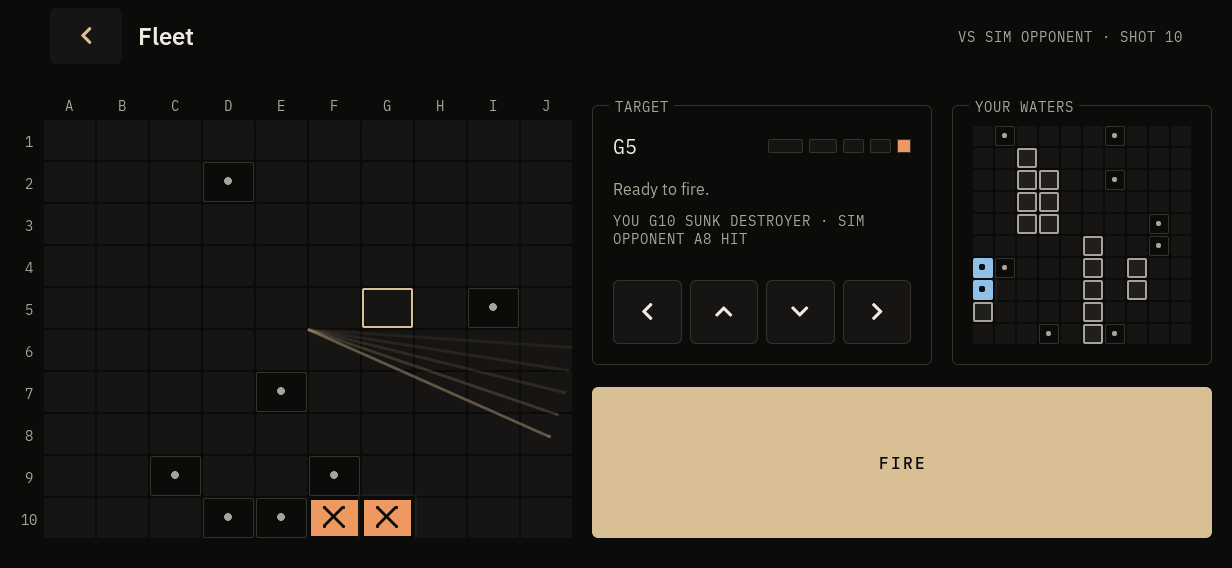
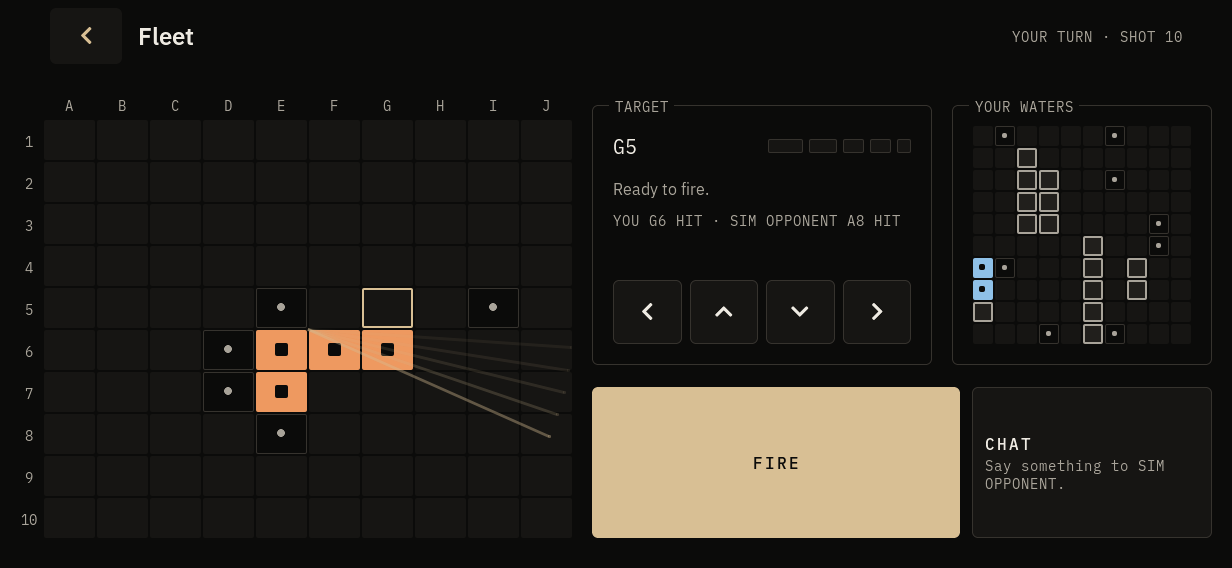
docs: Fleet chat and status - protocol, ADR-008 note, gate sheet, shots
FLEET_MULTIPLAYER.md gains the two message types, a Chat section (ids,
receipts, copies, priority, the airtime terms, bounds, old builds), the
status and chat rows of the UX table, the airtime measured with both
players talking, and the new test coverage. ADR-008 (still Proposed) notes
the addition. FLEET_CHAT_STATUS_GATE.md is the two-device gate, NOT RUN:
unit A was not reachable. The multiplayer screenshots are regenerated
(the header now carries the status; Battle and Result show CHAT) and the
chat screen is added in both shapes.

diff --git a/docs/apps/FLEET_MULTIPLAYER.md b/docs/apps/FLEET_MULTIPLAYER.md
@@ -60,8 +60,9 @@ meshcored puts it in a MeshCore REQ as `tag(4) | 0xD1 | length(1) | packet`
 the decrypted REQ is padded to the AES block and MeshCore records no length
 of its own. A packet of at most **10 bytes** is one AES block: a **22-byte
 frame, 304.1 ms**. Up to **26 bytes** is two blocks: **38 bytes, 386.0 ms**
-(zero hops; each hop adds a path byte and a retransmission). Every Fleet
-packet is one or the other.
+(zero hops; each hop adds a path byte and a retransmission). Every packet
+of the game is one or the other. Only a line of chat can need a third
+block: up to **42 bytes**, a **54-byte frame, 468.0 ms** ("Chat").
 
 Field encodings:
 
@@ -89,6 +90,8 @@ Field encodings:
 | 10 | REVEAL | both | layout(5) ‖ salt(16); flags in the ply byte (bit 0: I hold your reveal) | 26 | REVEAL |
 | 11 | END | either | reason (1 forfeit, 2 void, 3 abandon, 4 cancelled, 5 unknown, 6 violation, 7 finished); ply = R | 6 | END_ACK |
 | 12 | END_ACK | either | reason echoed | 6 | – |
+| 13 | CHAT | either | the line: 1 to 37 bytes of UTF-8, no control character; the line's id in the ply byte | 6 to 42 | CHAT_ACK |
+| 14 | CHAT_ACK | either | check(2): 16 bits of FNV-1a over id ‖ text; the id in the ply byte | 7 | – |
 
 There is no TURN_ACK and no GAME_OVER: RESULT acknowledges SHOT, the next
 SHOT carries and acknowledges the RESULT before it (`prev`), REVEAL
@@ -100,7 +103,9 @@ SYNC phase codes: 0 none, 1 before start, 2 deploying, 3 committed,
 
 A packet is **dropped** unless its length is exactly right for its type, its
 version is 1, its sid is non-zero, every enum and cell is in range, and its
-sender is the session's peer (INVITE excepted).
+sender is the session's peer (INVITE excepted). CHAT is the one type whose
+length is its text's; its text is checked like any field (well-formed UTF-8,
+no overlong form or surrogate, no C0, DEL or C1 control).
 
 ## Session
 
@@ -236,6 +241,67 @@ which end the match `END(violation)`; a refusal to reveal ("not verified").
 Trusted in v1: that a key belongs to whoever adverted it; MeshCore's 2-byte
 datagram MAC; the guest-first rule; the loser's own display of its loss.
 
+## Chat
+
+Short lines between the two players of the match in hand, and nothing else:
+no chat outside a match, no history kept after it, nothing saved. It rides
+the same session as the game - same port, same sid, same peer check - so a
+line from anyone but the opponent, or from another session, is never shown.
+The code is `apps/fleet/net/fleet_chat.c` (the bookkeeping) and
+`fleet_match.c` ("chat": when a line may go).
+
+**Open** from Deploy until the match is put away, except after an END for a
+forfeit, void or abandon: then the peer answers anything but the ending with
+END, and a line would only cost airtime. Lines still waiting when chat closes
+are given up.
+
+**A line** is 1 to **37 bytes** - what fills a third AES block after the
+header - of UTF-8 with no control character, spaces at either end dropped. The
+fonts cover Latin-1, so Norwegian letters are text; a character the fonts do
+not have still travels and shows as a box. The field counts characters and
+the screen says when an accented line runs over the bytes.
+
+**Ids and receipts.** Each line carries an 8-bit id, counting on from where
+the last session left it (and, in a new run of the app, from a number drawn
+from the match's seed), and each is confirmed by a CHAT_ACK naming its id and
+its 16-bit check. A receipt that names a line only by number could confirm the
+wrong one after a restart; with the check it cannot.
+
+**Once, and once only.** The receiver remembers the id and check of the
+peer's last 16 lines. A copy - a retry after a lost receipt, a duplicate on
+the mesh, a line that arrives late behind a newer one - is answered again (at
+most once per 2 s) and never shown again. A new run of the peer's app may
+reuse an id, but not with the same words, so a new line is never taken for a
+copy unless it says exactly what the copy said.
+
+**One on the air at a time.** Ours go in order, each waiting for the one
+before it to be confirmed or given up: tried three times, on the same backoff
+as the game's packets (7 s, doubling), then shown as NOT DELIVERED. A line
+never makes the link "lost": only the game's own obligations do. While the
+opponent is out of reach, resynchronising or the governor is holding the game
+back, a waiting line costs no try.
+
+**Second to the game.** A line goes only when the game owes nothing and is
+owed nothing - no obligation in force (so never while a shot waits for its
+answer, which could arrive while a line was on the air), no resync, no packet
+of the game's in the outbox - and it never pushes a packet of the game's out
+of the outbox. Against the airtime governor a line is held to stricter terms
+than anything of the game's: never the last **2 tokens** of the burst; only
+while Fleet's airtime in the rolling hour is under **50 s**; and never once
+chat has used **20 s** of that hour. A receipt is held to the whole 90 s
+only, as the game's first answers are: the line it confirms is already on the
+other screen, and withholding it would make the sender try again and then
+call the line not delivered. There is at most one receipt per line.
+
+**Bounded.** 16 lines kept (theirs and ours; the oldest settled line goes
+first, never one still owed a receipt), 4 of ours waiting at most (a fifth is
+refused and the screen says why), 16 remembered for copies, one line on the
+air. Nothing grows with the length of a match.
+
+**Old builds.** A peer without chat refuses both types as unknown and
+answers nothing: the sender's lines end NOT DELIVERED, and the match is
+untouched. A type newer than this build is refused the same way.
+
 ## Persistence
 
 `$POCKETOS_STATE_DIR/fleet/match.v1`, written only by `fleet_store.c`,
@@ -267,7 +333,9 @@ peer takes it as a duplicate.
 Held: role, phase, sid, both keys, peer name, own layout, salt and commit,
 peer commit and the evidence bits, R and the log, the pending shot, the
 peer's reveal and the verification, how it ended, four tombstones. Not
-held: timers, try counts, the governor, the outbox; each is rebuilt.
+held: timers, try counts, the governor, the outbox; each is rebuilt. Nor the
+chat: a reopened app shows none, and a line that was waiting as it closed
+is never sent. `match.v1` is unchanged by chat, still 655 bytes.
 
 ## In the app
 
@@ -303,6 +371,18 @@ multiplayer to them exactly as it holds single player.
 | Opponent disconnected | Battle | "Anna is out of reach. The match is paused, not lost." FIRE becomes CHECK LINK |
 | Forfeit | Lobby, match in hand | FORFEIT, then CONFIRM FORFEIT |
 | Game over | Result | "Enemy fleet destroyed" / "Fleet lost" / "No result", or "Opponent forfeited" / "You forfeited" when it ended by forfeit (a forfeit sinks nothing); Ended ("ALL SHIPS SUNK", "THEY FORFEITED", "VOID · RECORDS DIFFER"); Their fleet ("Verified", "Not verified", "Reports did not match") |
+| Status | the header, every multiplayer screen | one of: CONNECTING, MESH OFFLINE, DEPLOY YOUR FLEET, SYNCING, RECONNECTING, OPPONENT DISCONNECTED, YOUR TURN · SHOT 12, WAITING FOR ANNA, GAME OVER - read afresh from the match and the link each time (`fleet_view_mp_state`), so it cannot disagree with them. MULTIPLAYER in the lobby with no match |
+| Chat | Battle: CHAT beside FIRE, on FIRE's row; Result: CHAT in the foot | the button says "CHAT" or "CHAT · 2 NEW" over the newest line ("ANNA · Nice shot"); it opens the chat |
+| Chat screen | its own screen, BOARD back | the status first, then the lines (oldest at the top, the list scrolling inside its panel), then the field, SEND and, in a body wider than tall, KEYS. Ours read "YOU · Hello", with " · WAITING", " · SENDING" or " · NOT DELIVERED" while it matters. Enter sends. A finger on the field brings the touch keyboard up down the page; across it, KEYS does, and the physical keyboard types without it. BOARD goes to the screen the match's phase belongs to now |
+
+The status is the header's hint, where Fleet has always put the turn: Fleet
+is fullscreen (DS §30.4), the header is on every screen in both shapes, and a
+Battle turn has no height to spare for a line of its own. The chat button
+costs Battle nothing either: it shares FIRE's row, so the never-scroll rule
+and the tall layout are unchanged, and in single player it is hidden and FIRE
+is the whole row as before. The chat field joins the focus group only while
+the chat is on the screen, so keys typed on Battle go nowhere, as they always
+did.
 
 The wording is `apps/fleet/ui/fleet_view_mp.c`, tested natively.
 Screenshots: `docs/design/shots/fleet-mp-<state>[-landscape].png`.
@@ -311,9 +391,10 @@ Screenshots: `docs/design/shots/fleet-mp-<state>[-landscape].png`.
 virtual opponent (`apps/fleet/link/fleet_link_loop.c`): a second match state
 machine, played by PocketFleet's AI, over a channel that can lose, duplicate,
 delay and be cut (`loss=20,dup=5,delay=800,invite=3000,think=2500,level=3,
-decline,silent,cut=60000,seed=7`). With it, one simulator shell plays a whole
+decline,silent,cut=60000,chat,seed=7`; `chat` has it answer every line
+"Copy that."). With it, one simulator shell plays a whole
 match against the real protocol. With `POCKETFLEET_SCREEN=lobby|mp_invited|
-mp_deploy|mp_battle|mp_waiting|mp_lost|mp_result` the app drives the match
+mp_deploy|mp_battle|mp_waiting|mp_lost|mp_result|mp_chat` the app drives the match
 into that state on a skipped clock, for screenshots. Both are inert unless
 set, and nothing either does reaches a radio.
 
@@ -353,21 +434,55 @@ the dispatcher's, not the channel's; the airtime is computed, not measured.
 figures on a modelled channel, not measurements: the real channel is P7's
 to measure (docs/hardware/FLEET_MULTIPLAYER_GATE.md).
 
+**With chat** (2026-09-30). A line costs its sender one frame of 305 ms (up
+to 5 bytes), 387 ms (up to 21) or 468 ms (up to 37), and its receiver one
+305 ms receipt. `tests/fleet_mp_sim_test`, 300 matches a profile, both
+players talking all through - a line every 3 to 18 s whenever they have
+room, far more than people do - against the same faults in silence:
+
+| Profile | lines shown / match | airtime / device / match | worst hour | mean match |
+| --- | --- | --- | --- | --- |
+| 10 % loss, collisions, silent | – | 38.6 s | 70.5 s | 16 min |
+| the same, talking | 40.5 | 59.2 s | 90.0 s | 18 min |
+| all faults at once, silent | – | 59.2 s | 80.6 s | 54 min |
+| the same, talking | 24.7 | 105.9 s | 90.6 s | 58 min |
+
+(The talking profiles run other seeds than the silent ones, so compare the
+means, not single matches. 90.6 s is a minute that straddles an app restart,
+which the governor cannot see across; I5 allows for it.)
+
+Every match still finished, verified, and was shot for shot the match the
+same seeds play in silence on a perfect network: chat changes when things
+happen, never what happens. On a clean link it costs the game nothing. On a
+lossy one, constant talk makes a match 7 to 12 % longer on average (16 to
+18 min, 54 to 58), because a match that already fills Fleet's 90 s hour then
+shares it: lines are capped at 20 s of the hour and stop once it passes
+50 s, but their receipts are not, so chat can hold roughly 30 s of an hour
+at the very most. That is the price of one airtime budget for both, and the
+limits (`FLEET_CHAT_*` in `fleet_match.h`) are the knobs if the owner wants
+it smaller. In `tests/fleet_match_test`,
+on a clean link, both sides saying a 30-odd byte line every 2 s: the same 106
+plies in the same 646 s as in silence, still exactly one SHOT and one RESULT
+per ply, 24 and 23 lines shown, each costing exactly one frame. Over the
+whole stack (P6 "chat", two real meshcored processes, real MeshCore
+encryption, three-block datagrams): 10 lines each way, every one delivered
+at the first try, once and in order, in a 110-ply match of 21 s.
+
 ## Tests
 
 | Test | Covers |
 | --- | --- |
 | `tests/fleet_sha256_test` | the NIST vectors, every split, the padding boundaries |
-| `tests/fleet_proto_test` | every type round trip, every length, every bad field, a million random packets |
-| `tests/fleet_match_test` | each session, turn, resync, fairness, END and save-codec rule by name |
-| `tests/fleet_mp_sim_test` | two AI players over a simulated LoRa channel with loss, duplication, reordering, collisions, outages, crashes, app close/reopen, service restarts and reboots; invariants after every step, the perfect-network oracle, eight cheating peers. `make fleet-mp-soak` for 5000 matches a profile |
-| `tests/fleet_session_test` | the session against the virtual opponent: nothing before engaging, whole matches clean and lossy, reopen and resume, a failed save, another identity's save, decline, silence |
-| `tests/fleet_view_mp_test` | every UX state's words |
+| `tests/fleet_proto_test` | every type round trip, every length, every bad field, a million random packets; CHAT at 37 bytes and not 38, empty, every kind of bad UTF-8 and control character, the receipt's exact length, a type newer than the build |
+| `tests/fleet_match_test` | each session, turn, resync, fairness, END and save-codec rule by name; chat: sent, received from the opponent only, a copy shown once, a lost receipt, a line given up after three tries without the link called lost, reordered, the history and the waiting lines bounded under a flood, the limits, malformed and unknown types, a line of an old session never shown in a new one, a shot always before a line, the token and hour reserves, lines given up when a forfeit ends the match, a word after a finished match, and a whole match with both sides talking played shot for shot as in silence |
+| `tests/fleet_mp_sim_test` | two AI players over a simulated LoRa channel with loss, duplication, reordering, collisions, outages, crashes, app close/reopen, service restarts and reboots; invariants after every step, the perfect-network oracle, eight cheating peers; and two profiles with both players talking throughout (no line shown twice, none from another session, the oracle unchanged). `make fleet-mp-soak` for 5000 matches a profile |
+| `tests/fleet_session_test` | the session against the virtual opponent: nothing before engaging, whole matches clean and lossy, reopen and resume, a failed save, another identity's save, decline, silence; chat through the session with no save, the opponent out of reach while typing and after, the app closed with a line waiting and reopened twenty times, a new match with an empty chat on both sides |
+| `tests/fleet_view_mp_test` | every UX state's words; the status for each state and in its order of precedence, a long or accented name cut whole; the chat button and every line's wording |
 | `tests/fleet_save_test` (match.v1) | the file: whole, byte for byte, independent of save.v1, oversized refused, a write that cannot happen, 0600 under any umask |
-| `tests/fleet_app_test` (section 8) | whole multiplayer matches under a finger in both shapes, a turn across the page never scrolling, reopen and RESUME MATCH, the link lost and CHECK LINK |
+| `tests/fleet_app_test` (sections 8, 9) | whole multiplayer matches under a finger in both shapes, a turn across the page never scrolling, reopen and RESUME MATCH, the link lost and CHECK LINK; the header always exactly the derived status, turn by turn; the chat button beside FIRE in multiplayer and absent in single player; the chat typed on keys and sent with Enter, the answer shown, an over-long accented line refused, the touch keyboard only for a finger down the page, a line said while on the board counted on the button, chat from Result after the match and gone once the match is put away |
 | `tests/fleet_shell_test.sh` (section 10) | every multiplayer state rendered in both shapes in the shell, `match.v1` written whole, no mesh service, a damaged `match.v1` |
 | `tests/fleet_lint.sh` | the layers: net pure, one file talks to a service, no radio method, nothing pumped before engaging, the virtual opponent only when asked for |
 | `tests/fleet_link_test` | the mesh link against a real socket and a scripted meshcored: nothing asked before the first poll, the four link states, players listed (no repeaters, no forgotten nodes), each datagram taken once from the inbox and from events, the cursor reset on a new service run, stale and malformed datagrams refused, exactly the bytes handed over sent on port 1, a zero-hop advert, a radio that is off |
 | `tests/meshcored_runtime_test.cpp`, `tests/meshcored_service_test.sh` (3d) | meshcored's half: app datagrams between two runtimes with real crypto, flood then direct once the receipt teaches the route, crafted REQs that are not app datagrams ignored, the inbox bounded; every refusal of `mesh.app_send` / `mesh.app_inbox` against the real process |
-| `make ENABLE_MESHCORED=1 fleet-mp-e2e` | **P6.** Whole matches between two Fleet players (`tests/fleet_mp_player`: the real session, mesh link and match, the AI for a finger) through two real meshcored processes over stand-in radiods and a mock air: at the product's own pace; with 15 % of frames lost and 5 % duplicated; with the guest's app killed at ply 30 and resumed from its save; and with the guest's meshcored restarted at ply 40. Each must end with one win and one loss, both fleets verified, identical records, no violation, datagrams both ways, a receipt, and no chat message |
+| `make ENABLE_MESHCORED=1 fleet-mp-e2e` | **P6.** Whole matches between two Fleet players (`tests/fleet_mp_player`: the real session, mesh link and match, the AI for a finger) through two real meshcored processes over stand-in radiods and a mock air: at the product's own pace; with 15 % of frames lost and 5 % duplicated; with the guest's app killed at ply 30 and resumed from its save; and with the guest's meshcored restarted at ply 40; and ("chat") with both players talking in three-block lines all through a fast match. Each must end with one win and one loss, both fleets verified, identical records, no violation, datagrams both ways, a receipt, and no message in `mesh.messages` (Fleet's chat is app datagrams, never RIFT's text); "chat" also every line held the opponent's, once, in order, none given up |
 | `make fleet-mp-san-test` | the native suites under ASan and UBSan, `fleet_link_test` included |

diff --git a/docs/hardware/FLEET_CHAT_STATUS_GATE.md b/docs/hardware/FLEET_CHAT_STATUS_GATE.md
@@ -1,0 +1,68 @@
+# Fleet chat and status: the two-device gate
+
+**Status: NOT RUN.** Written 2026-09-30 with branch `feat/fleet-chat-status`.
+Unit A did not answer on the bench network that day (it was last prepared
+for the office, see the unit A transfer notes), so there was no second
+Fleet-capable device. **Neither unit carries this branch.** Before any step,
+`doors shell info` on both units must report the build id of the branch
+tip; write it here:
+
+| unit | build id reported | rotation mode |
+| --- | --- | --- |
+| A (`Mstr_k230`) | | |
+| B (`K230-B`) | | |
+
+What the host already proved, so the gate is only about what it cannot:
+the codec, the state machine and the chat rules (`fleet_proto_test`,
+`fleet_match_test`), thousands of matches with both players talking through
+loss, collisions, outages, crashes, restarts and reboots (`fleet_mp_sim_test`),
+the session and the virtual opponent (`fleet_session_test`), the screens under
+a finger in both shapes (`fleet_app_test` sections 8 and 9), and whole matches
+with chat through two real `meshcored` processes with real MeshCore
+encryption, including the 42-byte three-block datagram (P6, `make
+ENABLE_MESHCORED=1 fleet-mp-e2e`, scenario `chat`). What only the radios can
+show: that a three-block line crosses the real air, how long a line takes,
+how chat and shots share a real half-duplex channel, and how the status reads
+on real glass.
+
+## Install: one file per unit
+
+Only the shell changes; `meshcored`, `radiod`, `match.v1` and every message
+the game already sends are unchanged, so a unit on this build still plays a
+unit on master (its chat is simply never answered).
+
+1. Build the riscv64 DRM shell from the branch tip
+   (`POCKETOS_DISPLAY=drm`, `POCKETOS_LVGL_MODE=sysroot`) and strip it.
+2. On each unit: copy `/usr/bin/doors-shell` to `/root/rollback-fleet-chat/`
+   first, then install the new one (0755 root), stop and start only
+   `S90doors-shell`. `meshcored` must be running (`MESHCORED_ENABLE=1`).
+3. `POCKETFLEET_MP_FAKE` and `POCKETFLEET_SCREEN` must be unset.
+
+Rollback: put `/root/rollback-fleet-chat/doors-shell` back and restart
+`S90doors-shell`.
+
+## Steps
+
+| # | Do | Expect |
+| --- | --- | --- |
+| 1 | A: Fleet, MULTIPLAYER, invite B; B accepts; both deploy | header: CONNECTING while the invitation is out, DEPLOY YOUR FLEET, then WAITING FOR `<other>` until both have deployed |
+| 2 | Look at both at the start of Battle | the guest (B) YOUR TURN · SHOT 1; the host (A) WAITING FOR `<B>`; a CHAT button beside FIRE on both |
+| 3 | Play six plies | after every FIRE the shooter's header turns WAITING at once; when the answer and the next shot land it turns YOUR TURN on the other side |
+| 4 | A: CHAT, type a line, Enter (or SEND) | A shows "YOU · … · SENDING", then the line alone; B's button reads "CHAT · 1 NEW" over "`<A>` · …" |
+| 5 | B: CHAT, answer | the same the other way; opening the chat clears "NEW" |
+| 6 | Several lines each way mixed with moves; one of 37 characters, one with æøå | each line once on each side, in the order said; nothing waits more than a few seconds unless a shot is waiting for its answer; the game never slows |
+| 7 | Count on both | lines shown = lines sent, no repeats (`doors shell` log has no errors) |
+| 8 | Compare the boards | the same plies, hits and sinkings on both |
+| 9 | Stop `meshcored` on B (or take B out of range) mid-battle, A fires | A: RECONNECTING while the shot is retried, then OPPONENT DISCONNECTED; FIRE reads CHECK LINK; a line said now ends NOT DELIVERED |
+| 10 | Start it again (back in range), A presses CHECK LINK | SYNCING, then the turn status; the shot is answered once; new lines go |
+| 11 | Finish the match | GAME OVER on both; Result offers CHAT, and "gg" still goes both ways |
+| 12 | MULTIPLAYER (puts the match away) on both, reopen Fleet, start a new match | the new match's chat is empty on both sides; no line of the old match appears |
+
+Record, for the owner: the time from SEND to the line appearing on the other
+unit (median of five), whether any line appeared twice, the `radio.stats`
+`tx_packets` before and after step 6, and each unit's `mesh.status`
+`app_tx`/`app_rx`.
+
+## Results
+
+Not run. See the status line at the top.

diff --git a/docs/decisions/ADR-008-fleet-multiplayer.md b/docs/decisions/ADR-008-fleet-multiplayer.md
@@ -144,6 +144,16 @@ from the next without reading `uptime_s`.
 Future: background invites (a daemon or a shell-level listener, not decided
 here); rematches; other rules variants (the INVITE carries a rules byte).
 
+Added since (2026-09-30, branch `feat/fleet-chat-status`): **in-match chat**,
+two message types in Fleet's own protocol (13 CHAT, 14 CHAT_ACK) on the same
+port, session and peer check - no new service surface, no change to
+meshcored, `match.v1` or any existing message. A line is up to 37 bytes, the
+first Fleet packet to need a third AES block (42 bytes, 468 ms at zero hops);
+it goes only when the game owes and is owed nothing, and is held to stricter
+airtime terms than the game (docs/apps/FLEET_MULTIPLAYER.md, "Chat"). A peer
+without it ignores both types, and only its chat is lost. The header's status
+is now read from the match and the link (`fleet_view_mp_state`).
+
 Risks:
 
 - The MeshCore datagram MAC is 2 bytes. A forged packet passes it once in
